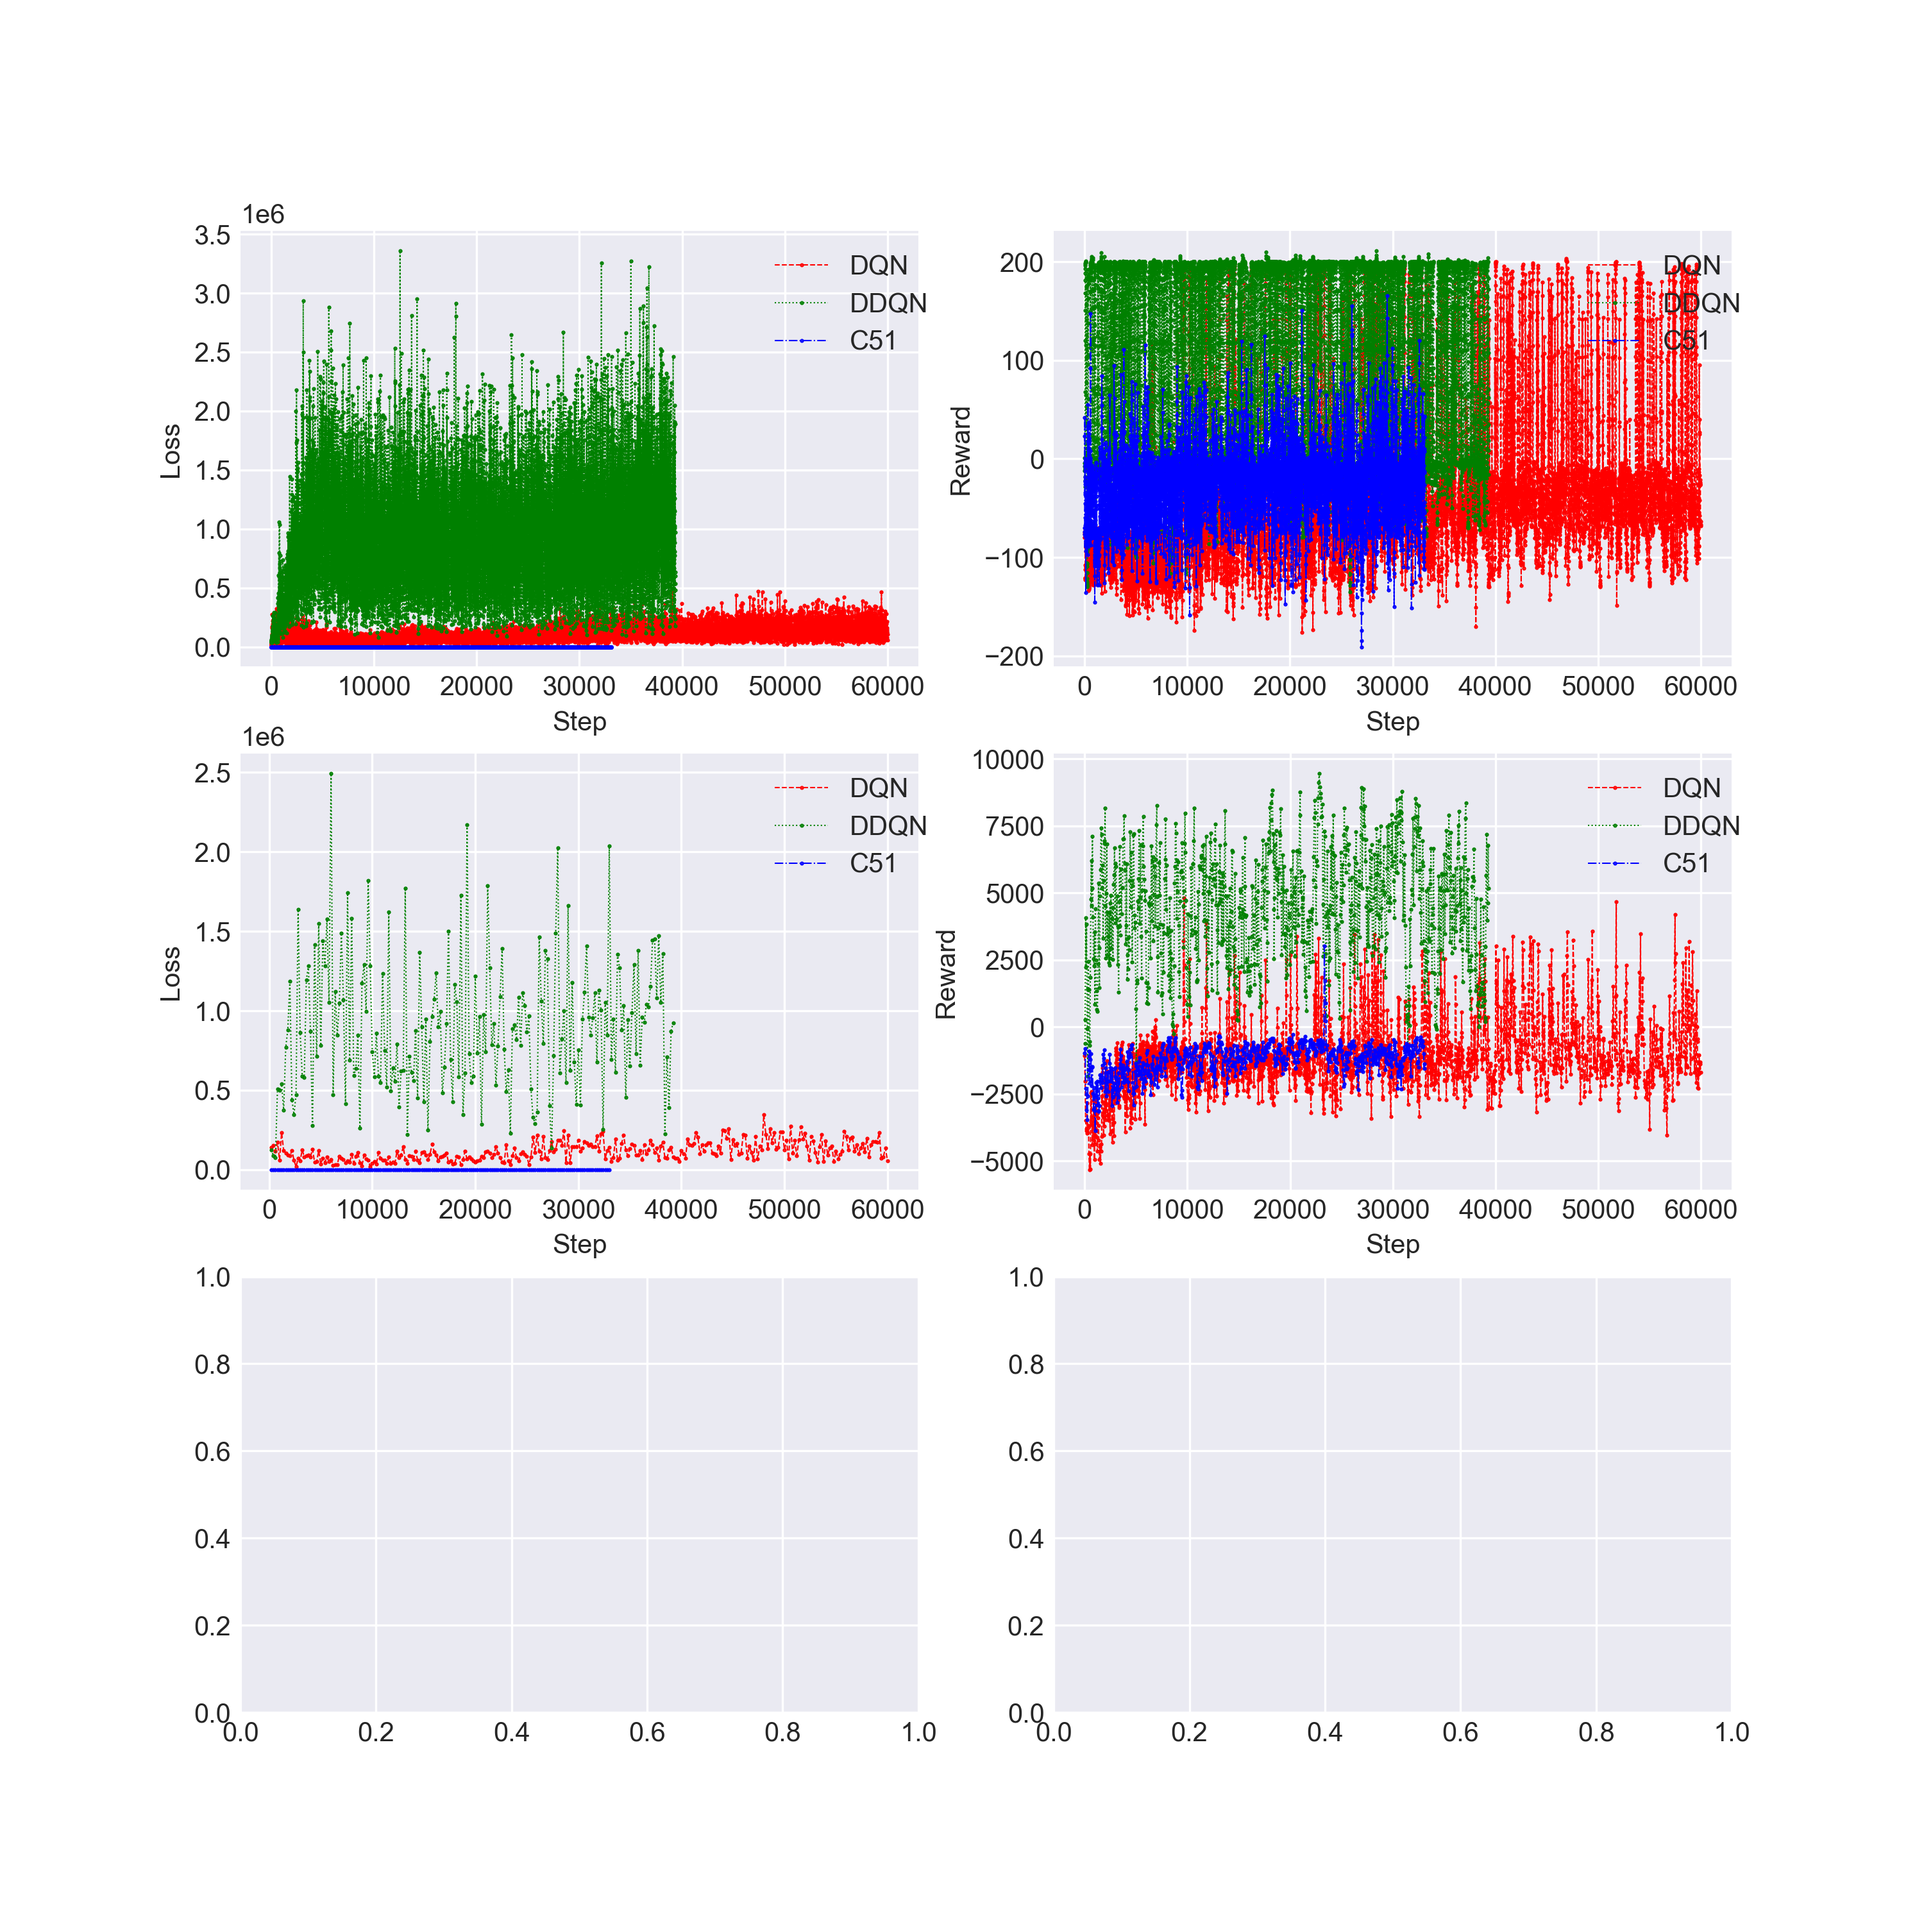
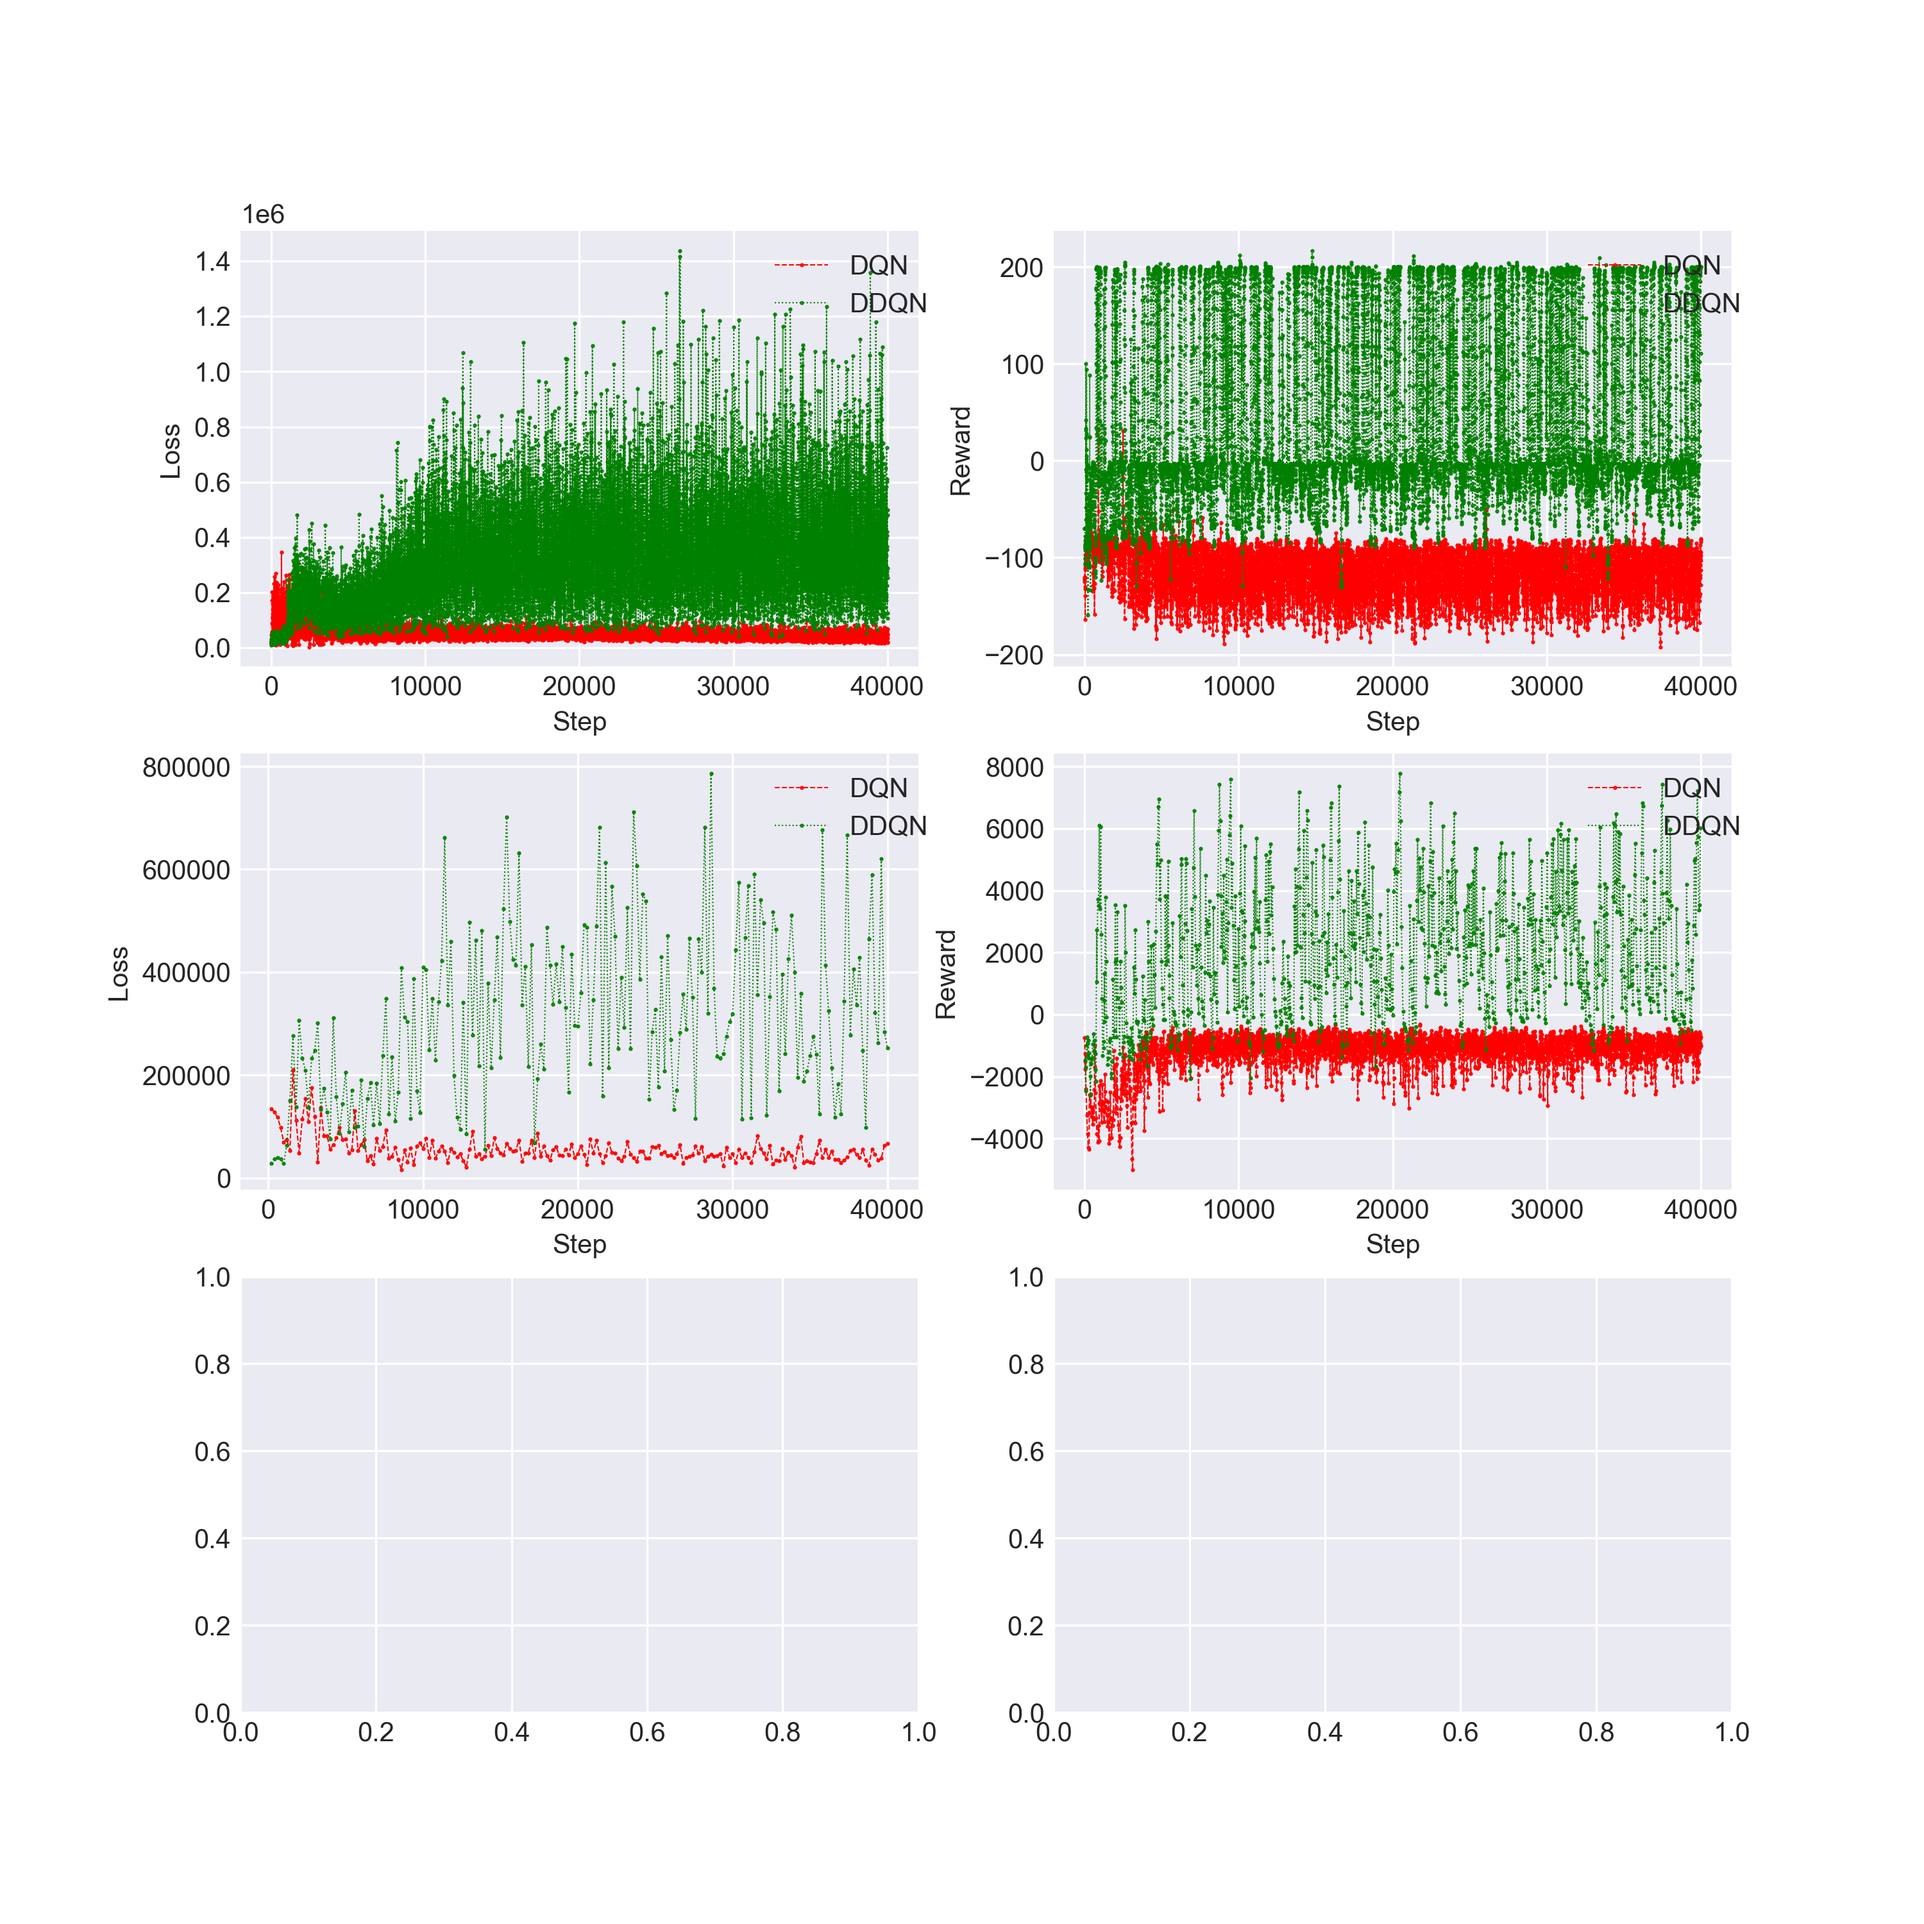
add fill_between

diff --git a/plot_tensorboard_log/plot_tensorboard_log_for_train.py b/plot_tensorboard_log/plot_tensorboard_log_for_train.py
@@ -90,9 +90,13 @@ def smooth(value, weight=0.85): #weight是平滑度，tensorboard 默认0.6
 #                "./0514/May12_15-23-09_d84979fad1fc_DDQN/events.out.tfevents.1683897789.d84979fad1fc", \
 #                "./0514/May12_15-18-04_ws2030_C51/events.out.tfevents.1683897484.ws2030"]
 
-event_files = ["./0516/events.out.tfevents.1684076654.ws2030", \
-               "./0516/events.out.tfevents.1684233906.d84979fad1fc", \
-               "./0516/events.out.tfevents.1684233466.3742946e008f"]
+# event_files = ["./0516/events.out.tfevents.1684076654.ws2030", \
+#                "./0516/events.out.tfevents.1684233906.d84979fad1fc", \
+#                "./0516/events.out.tfevents.1684233466.3742946e008f"]
+
+event_files = ["./0514/May13_09-10-38_ws2020_DQN/events.out.tfevents.1683961838.ws2020", \
+               "./0514/May12_15-23-09_d84979fad1fc_DDQN/events.out.tfevents.1683897789.d84979fad1fc"]
+
 # 設定圖表的樣式
 plt_themes = ["seaborn-darkgrid", "ggplot", "dark_background", "bmh", "fivethirtyeight"]
 plt.style.use(plt_themes[0])
@@ -163,6 +167,79 @@ for i, event_file in enumerate(event_files):
 plt.savefig('plot_tensorborad_log.png', dpi=300)
 plt.show()
 # '''
+
+fig, axs = plt.subplots(2, figsize=(10, 10))
+# 從每個 event 文件中讀取數據，並繪製在對應的子圖上
+for i, event_file in enumerate(event_files):
+    # 建立一個 EventAccumulator 對象來讀取 event 文件
+    event_acc = EventAccumulator(event_file)
+    event_acc.Reload()
+    # 取得所有 summary keys
+    tags = event_acc.Tags()["scalars"]
+    color = ['red', 'green', 'blue']
+    linestyle = ['dashed', 'dotted', 'dashdot']
+    Log = ['DQN','DDQN','C51']
+    # 從 event 文件中讀取數據
+    for tag in tags:
+        events = event_acc.Scalars(tag)
+        steps = [event.step for event in events]
+        value = [event.value for event in events]
+        steps = np.array(steps)
+        value = np.array(value)
+        # 繪製在對應的子圖上
+        if tag == "trained-model/train_step_reward/":
+            for j in range(len(value)):
+                if value[j] <= -200:
+                    value[j] = -200
+                elif value[j] >= +250:
+                    value[j] = +200
+            # 繪製陰影不確定區域
+            mean_reward = np.mean(value)  # 计算平均奖励
+            std_reward = np.std(value, ddof=1)  # 计算样本标准差
+            mean_rewards = np.full_like(steps, mean_reward)  # 将平均奖励扩展为与steps相同长度的数组
+
+            # 计算上下边界
+            rewards_upper = value + std_reward
+            rewards_lower = value - std_reward
+
+            # 绘制平均奖励曲线和附加阴影区域
+            value_smooth = smooth(value,0.99)
+            axs[0].plot(steps, np.ones_like(steps) * value_smooth, color=color[i])
+            axs[0].fill_between(steps, rewards_lower, rewards_upper, label=Log[i], color=color[i],  linestyle=linestyle[i], linewidth=0.5, alpha=0.3)
+
+
+            # value_smooth = smooth(value,0.6)
+            # axs[0, 1].plot(steps, value_smooth, label=Log[i], color=color[i], marker='o', linestyle=linestyle[i], linewidth=0.5, markersize=0.5)
+            axs[0].set_xlabel("Step")
+            axs[0].set_ylabel("Reward")
+            axs[0].legend(bbox_to_anchor=(1.05, 1), loc='upper right')
+        elif tag == "trained-model/Episode_Return/":
+
+            # 繪製陰影不確定區域
+            mean_reward = np.mean(value)  # 计算平均奖励
+            std_reward = np.std(value, ddof=1)  # 计算样本标准差
+            mean_rewards = np.full_like(steps, mean_reward)  # 将平均奖励扩展为与steps相同长度的数组
+
+            # 计算上下边界
+            rewards_upper = value + std_reward
+            rewards_lower = value - std_reward
+
+            # 绘制平均奖励曲线和附加阴影区域
+            value_smooth = smooth(value,0.99)
+            axs[1].plot(steps, np.ones_like(steps) * value_smooth, color=color[i])
+            axs[1].fill_between(steps, rewards_lower, rewards_upper, label=Log[i], color=color[i],  linestyle=linestyle[i], linewidth=0.5, alpha=0.3)
+
+            # value_smooth = smooth(value,0.6)
+            # axs[1].plot(steps, value_smooth, label=Log[i], color=color[i], marker='o', linestyle=linestyle[i], linewidth=0.5, markersize=0.5)
+            axs[1].set_xlabel("Step")
+            axs[1].set_ylabel("Reward")
+            axs[1].legend(bbox_to_anchor=(1.05, 1), loc='upper right')
+# 顯示圖表
+plt.savefig('plot_tensorborad_log_fill.png', dpi=300)
+plt.show()
+# '''
+
+
 data_box = []
 # 個別plot
 # 從每個 event 文件中讀取數據，並繪製在對應的子圖上
